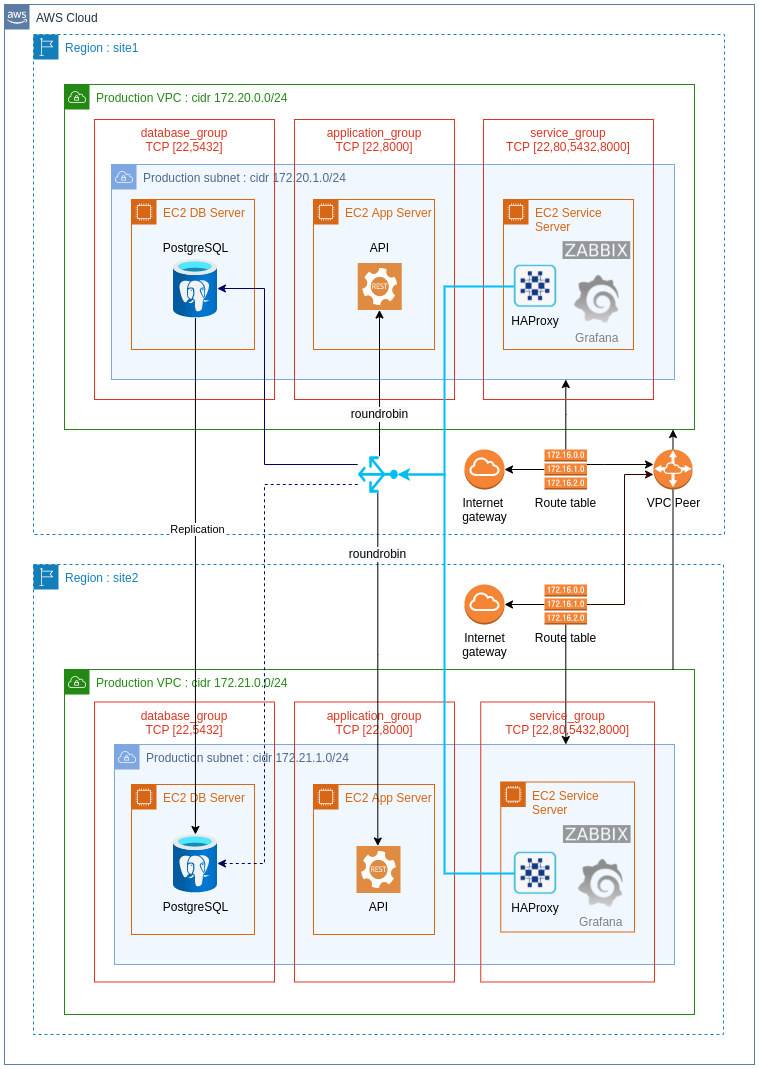
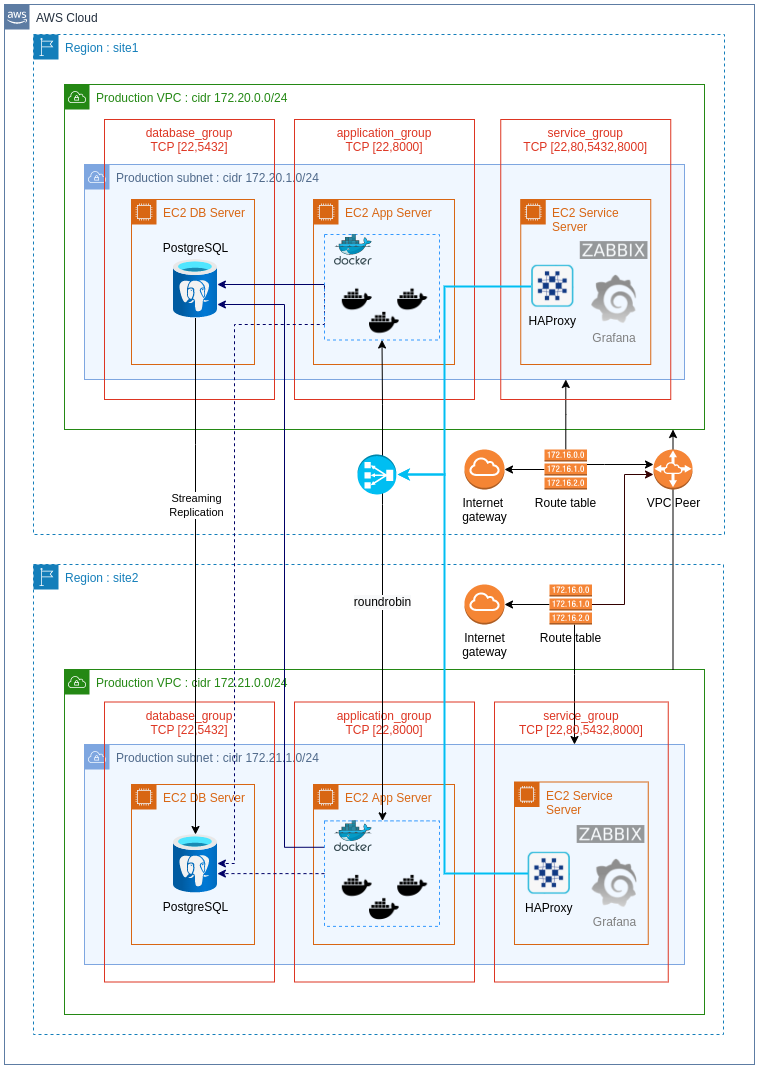
Add failover playbooks and python routines

diff --git a/run_deploy.py b/run_deploy.py
@@ -1,0 +1,6 @@
+import os
+import time
+
+os.system('cd ./terraform/aws/ ; clear ; echo "------- TERRAFORM START -------" ; date ; echo "-------------------------------" ; terraform apply -auto-approve ; echo "-------------------------------" ; date ; echo "------ TERRAFORM FINISH -------"')
+time.sleep(3)
+os.system('cd ./ansible ; echo "-------- ANSIBLE START --------" ; date ; echo "-------------------------------" ; ansible-playbook -i inventories --forks 1 deploy.yml; echo "-------------------------------" ; date ; echo "------- ANSIBLE FINISH --------"')

diff --git a/test_failover.py b/test_failover.py
@@ -1,0 +1,10 @@
+import os
+import time
+import run_deploy
+import run_failover
+
+run_deploy
+time.sleep(3)
+os.system('cd ./ansible ; echo "------- FORCE FAILOVER --------" ; ansible-playbook -i inventories --forks 1 stop_main_db.yml; echo "-------------------------------"')
+time.sleep(3)
+run_failover

diff --git a/run_failover.py b/run_failover.py
@@ -1,0 +1,2 @@
+import os
+os.system('cd ./ansible ; echo "------- FAILOVER START --------" ; date ; echo "-------------------------------" ; ansible-playbook -i inventories --forks 1 failover.yml; echo "-------------------------------" ; date ; echo "------- FAILOVER FINISH -------"')

diff --git a/destroy_all.py b/destroy_all.py
@@ -1,0 +1,2 @@
+import os
+os.system('terraform apply -auto-approve -destroy')

diff --git a/README.md b/README.md
@@ -24,7 +24,7 @@ This table of contents is under construction. It will get updated as it reflects
   - [x] [Database replication](#database-replication)
   - [x] [Application server](#application-server)
   - [x] [Load balancing with Haproxy](#load-balancing-with-haproxy)
-  - 👉 [Monitoring with Zabbix and Grafana](#monitoring-with-zabbix-and-grafana)
+  - [ ] 👉 [Monitoring with Zabbix and Grafana](#monitoring-with-zabbix-and-grafana)
   - [ ] [CI/CD with Jenkins](#cicd-with-jenkins)
 - [ ] [Orchestration with Kubernetes](#orchestration-with-kubernetes)
 - [ ] [References](#references)
@@ -37,29 +37,31 @@ This project consists of a high availability cluster running on two AWS Regions.
 
 The infrastructure was created with Terraform 1.1.5, whereas the deployment was performed on AWS EC2 Debian v. 10 virtual machines using Ansible v. 2.12.1.
 
-The Web application was built to a container using Docker v. 20.10.12 and is available on Dockerhub, from where the playbook builds the REST service.
+The Web application was built into a container using Docker v. 20.10.12 and is available on Dockerhub, from where the playbook builds the REST service.
+
+Moreover, this project is subdivided into tree projects:
+
+- Application project: includes the REST application code and Dockerfile
+- Terraform project: creates the infrastructure layer
+- Ansible project: handles the deployment of applications and their dependencies
 
 ### Region 1 contains:
 
 - A service host with HAProxy load balancer
-- An application host running the Web application (Django/Python v. 3.2.5)
+- An application host running 3 instances of the Web application (Django/Python v. 3.2.5)
 - The database host running the Main PostgreSQL v. 13.5 database
 
 ### Region 2 contains:
 
 - A seccond service host with HAProxy load balancer
-- Another application host running the Web application (Django/Python v. 3.2.5)
+- Another application host running 3 more instances of the Web application (Django/Python v. 3.2.5)
 - The database host running the Replica PostgreSQL v. 13.5 database
+
+The strategy chosen for running the application cluster
 
 ---
 
 ## Project tree
-
-This project is subdivided into tree projects:
-
-- Application project: includes the REST application code and Dockerfile
-- Terraform project: creates the infrastructure layer
-- Ansible project: handles the deployment of applications and their dependencies
 
 This is the project tree so far:
 
@@ -240,7 +242,7 @@ docker push valerionet/haproxyht:latest
 
 ## Terraformation
 
-In order to be able to provision the infrastructure with Terraform, create the variables.auto.tfvars file into ./terraform/aws directory.
+In order to get able to provision the infrastructure with Terraform, create the variables.auto.tfvars file into ./terraform/aws directory.
 
 variables.auto.tfvars
 
